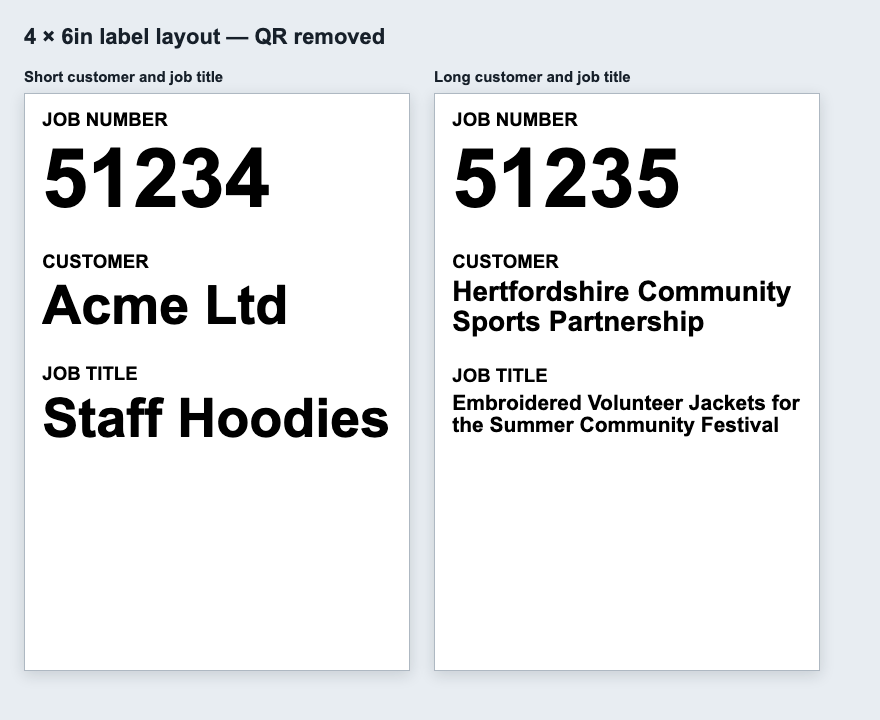
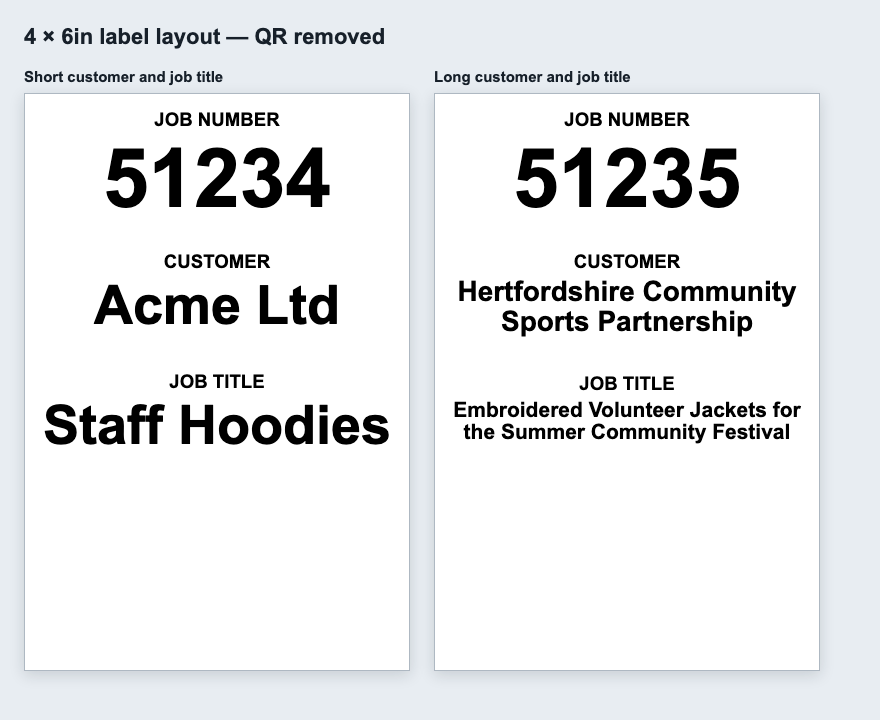
4

diff --git a/test/label-layout.test.js b/test/label-layout.test.js
@@ -19,6 +19,8 @@ test('label layout renders no QR and gives customer and job title two whole-word
   assert.match(html, /hyphens:\s*none/);
   assert.match(html, /justify-content:\s*flex-start/);
   assert.match(html, /gap:\s*0\.32in/);
+  assert.match(html, /text-align:\s*center/);
+  assert.match(html, /\.block-job-title\s*\{\s*margin-top:\s*0\.08in/);
   assert.doesNotMatch(html, /setTimeout\(startPrint,\s*150\)/);
 });
 

diff --git a/public/label-layout.js b/public/label-layout.js
@@ -65,11 +65,15 @@
             flex-direction: column;
             justify-content: flex-start;
             gap: 0.32in;
+            text-align: center;
             overflow: visible;
           }
           .block {
             flex: 0 0 auto;
             min-width: 0;
+          }
+          .block-job-title {
+            margin-top: 0.08in;
           }
           .head {
             margin: 0 0 6px;

diff --git a/contract.md b/contract.md
@@ -149,7 +149,7 @@ Scanner progression:
 - The Tuesday Dashboard DES/PSG parent cell is editable. Pressing Enter or leaving the field saves the changed value through `/api/test-dashboard/items/:jobId/design-column`, which reconciles DATABASE Design rows for that order. A submitted `/` creates separate DATABASE design rows, so `12345 / PSG7543` stores `12345` and `PSG7543` separately while the dashboard still displays them in the normal design-first format. Editing an existing displayed ref updates its existing DATABASE row where possible; deleting a displayed ref removes dashboard-created empty rows or clears the `design_ref` from rows that still contain position/colour data. The Tuesday Dashboard `NOTES` parent cell is an inline text input that saves on Enter/blur through `/api/test-dashboard/items/:jobId/text-column` into `test_dashboard_job_state`.
 - `PROOF`, `FILES`, and any future visible file columns render as icon-only cells using Cloudinary `secure_url` values from `test_dashboard_files`. The parent `IMAGE`, `CHECKED IN`, and `JOB OWNER` columns are hidden from the Tuesday Dashboard grid while their stored values remain available to backend logic. Empty Tuesday Dashboard file cells show a subtle grey `+` affordance; cells with existing files keep a compact `+` upload button to the right of the preview/file icons so additional files can still be picked without drag/drop. Clicking the `+` opens the browser file picker, and dragging files onto the same cell remains supported. The visible `VISUAL` column restricts its picker and drop handler to PDF, JPEG, and PNG; any other extension or MIME type is blocked before upload and opens an `Unsupported file type` warning stating that only those three formats are accepted. The separate `FILES` column retains its existing unrestricted file-type support, including EPS and SVG. While an upload is running, that cell shows a small spinner instead of the `+`; after refresh, the uploaded file appears using the normal file/PDF/image icon. The same dashboard preview modal opens images, PDFs, and other supported files directly from those Cloudinary URLs. Its header has a Download button immediately left of the red close X; supported Chromium browsers open the native Save As picker before fetching and writing the current file, while browsers without the File System Access API fall back to their normal download flow. Mobile PDF/image previews support pinch zoom and panning while enlarged. When a Cloudinary upload is an Illustrator-compatible PDF but the delivery URL is classified as `.ai`, the frontend rewrites the Cloudinary delivery URL to `.pdf` before PDF.js, the native viewer, or download loads it.
 - Clicking or dragging files onto a visible Tuesday Dashboard file cell requests `/api/test-dashboard/uploads/signature`, uploads directly from the browser to Cloudinary, then stores metadata through `/api/test-dashboard/items/:jobId/files`. Column folders are `ultimate-hub/test-dashboard/<column-slug>/<order-no>/`, with built-in slugs `proof`, `files`, and `image`. PDF uploads are saved with a PDF delivery URL and `format = pdf` when the original filename ends in `.pdf`.
-- The Tuesday Dashboard `LABEL` print column is rendered only for the authenticated `Ultimate Packing` user. Printing posts `/api/test-dashboard/items/:jobId/label-printed`, applies the label-printed status automation, opens the normal 4in by 6in label print popup, and invokes the browser print dialog. Labels contain only the job number, customer, and job title; no QR is generated or printed. Customer and job title each use up to two lines in a compact stack beneath the job number, wrap only between whole words without automatic hyphenation, and reduce their font size when needed to keep all text within those two lines. Unused label height remains blank below the content. After the browser print dialog completes and focus returns, the label popup closes itself. Scanner input while the Tuesday Dashboard tab is active expands bare numeric job ids through the test scan-url route and posts scan results to `/api/test-dashboard/scanner`.
+- The Tuesday Dashboard `LABEL` print column is rendered only for the authenticated `Ultimate Packing` user. Printing posts `/api/test-dashboard/items/:jobId/label-printed`, applies the label-printed status automation, opens the normal 4in by 6in label print popup, and invokes the browser print dialog. Labels contain only the job number, customer, and job title; no QR is generated or printed. All section headings and values are horizontally centred. Customer and job title each use up to two lines in a compact stack beneath the job number, with a slightly larger visual separation before the job-title section; both wrap only between whole words without automatic hyphenation and reduce their font size when needed to keep all text within those two lines. Unused label height remains blank below the content. After the browser print dialog completes and focus returns, the label popup closes itself. Scanner input while the Tuesday Dashboard tab is active expands bare numeric job ids through the test scan-url route and posts scan results to `/api/test-dashboard/scanner`.
 - The Tuesday Dashboard polls `/api/test-dashboard/board?fresh=1` every 1 second only while the Tuesday Dashboard tab is visible. Polling pauses while the shared status/priority picker is open, a status/checkbox write is in flight, a Tuesday Dashboard DES/PSG or NOTES edit is focused or saving, or a Tuesday Dashboard file upload is running. If a poll response returns after a text edit has become active, the frontend keeps the fetched payload but skips rerendering so inputs are not replaced while the user is typing; the save-triggered refresh can rerender after the value is submitted.
 - The shared main sidebar shows the white dark-theme Ultimate favicon to the left of the `Ultimate Hub` title, followed by the logged-in user's name at 14.4px bold in light grey for every user. A 3px divider separates that brand block from the navigation: it matches the DATABASE `#8ec7e3` light blue for full-access users and switches to the DTF Uploader `#7e00ff` accent purple for DTF-only users. All navigation-tab labels render in uppercase white semibold text. The sidebar shows a subtle neutral `Sign out` button with a horizontally mirrored, left-facing exit icon at the bottom of the dashboard controls. While its request runs, the icon remains visible and its label changes to `Signing out…`. Clicking it posts to `/api/auth/logout` to delete the current Hub session, then replaces the current page with `/login`.
 
